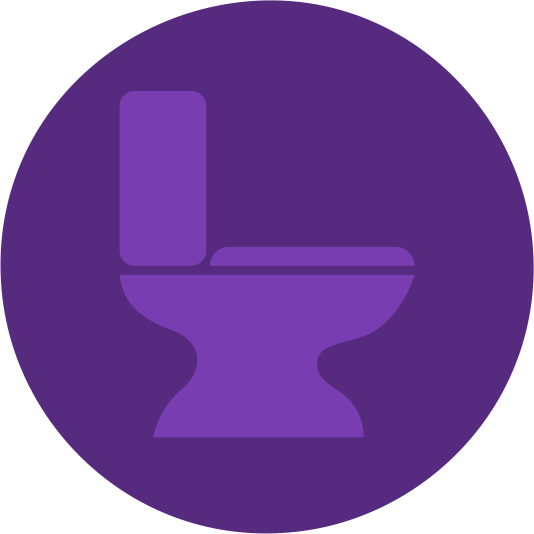
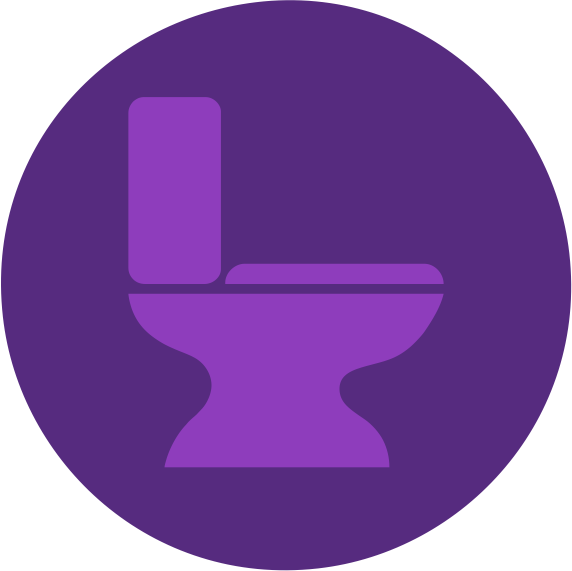
visual updates

Changed region(s): [[0.9888, 0.3895, 1.0, 0.5993], [0.3895, 0.9888, 0.4794, 1.0], [0.5393, 0.9888, 0.5993, 1.0]]

diff --git a/css/estilo.css b/css/estilo.css
@@ -1,7 +1,7 @@
 .infoBox {
   background-color: #fff;
   width: 300px;
-  border: 2px solid #7d3fb8;
+  border: 2px solid #8e3dbc;
   border-radius: 3px;
   margin-top: 10px;
   font: 14px Arial, Helvetica, sans-serif;
@@ -12,7 +12,7 @@
 .infoBox:before {
   border-left: 10px solid transparent;
   border-right: 10px solid transparent;
-  border-bottom: 10px solid #7d3fb8;
+  border-bottom: 10px solid #8e3dbc;
   top: -10px;
   content: "";
   height: 0;
@@ -31,7 +31,7 @@ body {
   height: 100%;
 }
 .nav-wrapper {
-  background-color: #7d3fb8;
+  background-color: #8e3dbc;
 }
 .container {
   width: 100%;
@@ -71,7 +71,7 @@ body {
   width: 60px;
   height: 60px;
   border-radius: 50% 50% 50% 0;
-  background: #7d3fb8;
+  background: #8e3dbc;
   position: absolute;
   transform: rotate(-45deg);
   left: 50%;
@@ -119,7 +119,7 @@ body {
   animation: pulsate 1s ease-out;
   animation-iteration-count: infinite;
   opacity: 0;
-  box-shadow: 0 0 1px 2px #7d3fb8;
+  box-shadow: 0 0 1px 2px #8e3dbc;
   animation-delay: 1.1s;
 }
 @keyframes pulsate {

diff --git a/css/sobre.css b/css/sobre.css
@@ -23,7 +23,7 @@ body {
   width: 60px;
   height: 60px;
   border-radius: 50% 50% 50% 0;
-  background: #7d3fb8;
+  background: #8e3dbc;
   position: absolute;
   transform: rotate(-45deg);
   left: 50%;
@@ -71,7 +71,7 @@ body {
   animation: pulsate 1s ease-out;
   animation-iteration-count: infinite;
   opacity: 0;
-  box-shadow: 0 0 1px 2px #7d3fb8;
+  box-shadow: 0 0 1px 2px #8e3dbc;
   animation-delay: 1.1s;
 }
 @keyframes pulsate {

diff --git a/index.html b/index.html
@@ -77,7 +77,7 @@
         $(window).load(function() {
           setTimeout(function() {
             $(".preloader").fadeOut("slow", function() {});
-          }, 1500);
+          }, 1300);
         });
       });
     </script>
